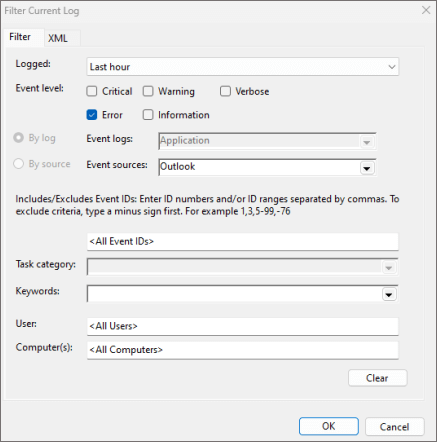
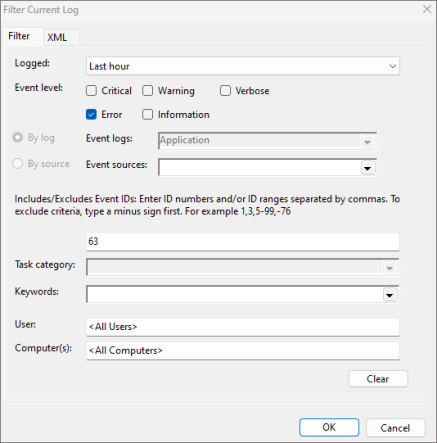
Update Event Viewer instructions and screenshot

diff --git a/docs/outlook/autolaunch.md b/docs/outlook/autolaunch.md
@@ -2,7 +2,7 @@
 title: Configure your Outlook add-in for event-based activation
 description: Learn how to configure your Outlook add-in for event-based activation.
 ms.topic: article
-ms.date: 11/18/2022
+ms.date: 12/07/2022
 ms.localizationpriority: medium
 ---
 
@@ -416,10 +416,10 @@ As you develop your event-based add-in, you may need to troubleshoot issues, suc
     1. From the **Actions** panel, select **Filter Current Log**.
     1. From the **Logged** dropdown, select your preferred log time frame.
     1. Select the **Error** checkbox.
-    1. From the **Event sources** dropdown, select **Outlook**.
+    1. In the **Event IDs** field, enter **63**.
     1. Select **OK** to apply your filters.
 
-    :::image type="content" source="../images/outlook-event-based-logs.png" alt-text="A sample of Event Viewer's Filter Current Log settings configured to only show Outlook errors that occurred in the last hour.":::
+    :::image type="content" source="../images/outlook-event-based-logs.png" alt-text="A sample of Event Viewer's Filter Current Log settings configured to only show Outlook errors with event ID 63 that occurred in the last hour.":::
 
   - Verify that the **bundle.js** file is downloaded to the following folder in File Explorer. Replace text enclosed in `[]` with your applicable information.
   
